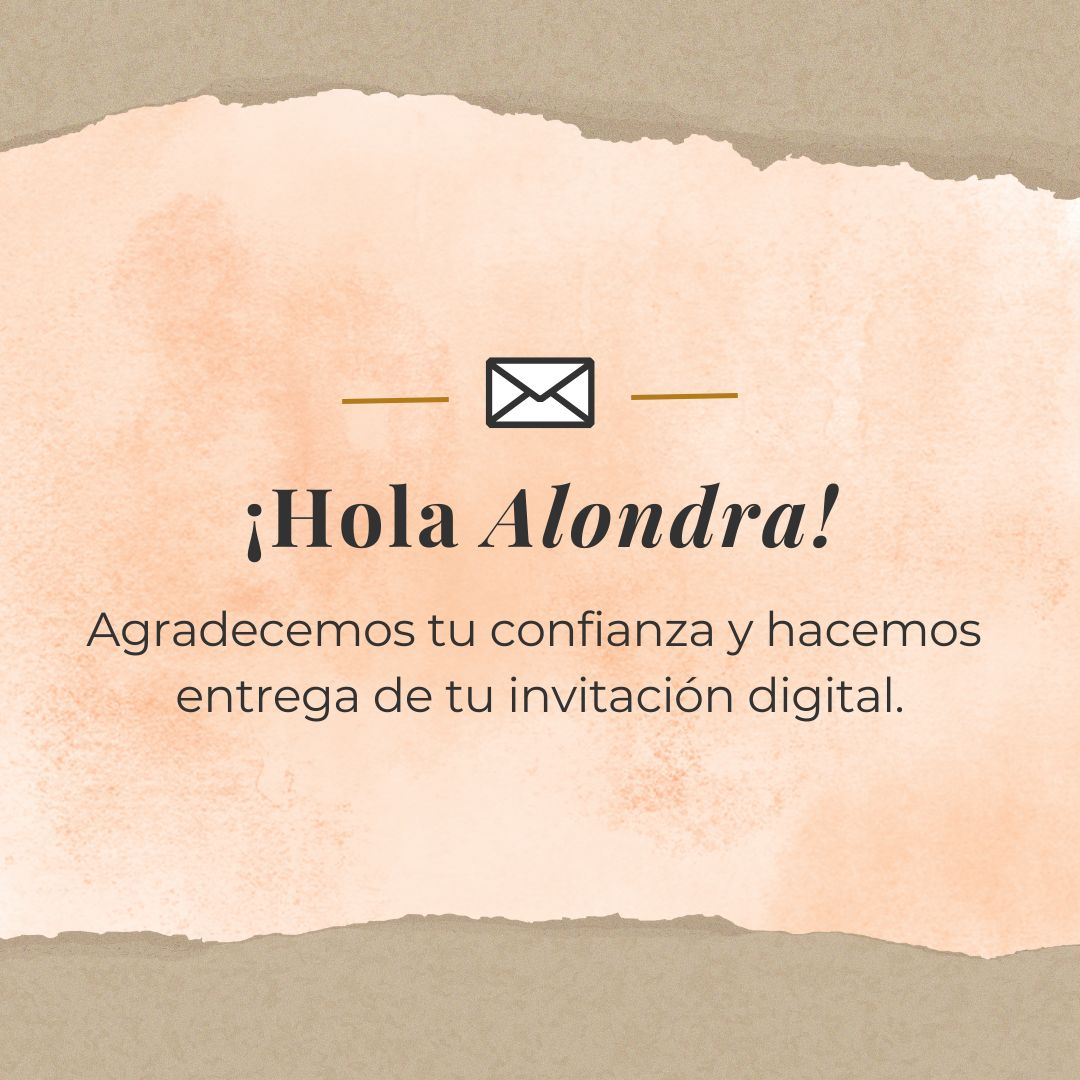
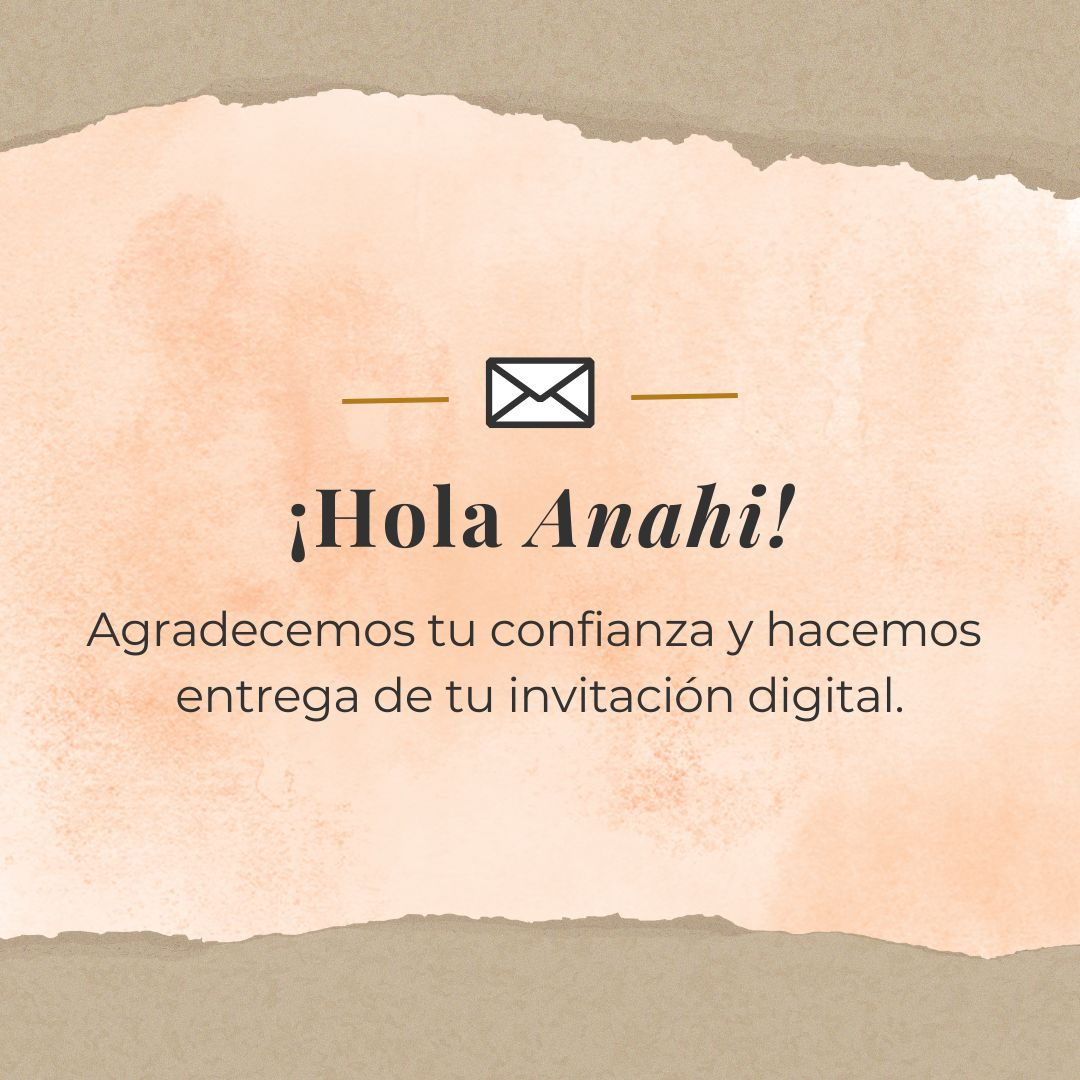
Add files via upload

Changed region(s): [[0.2139, 0.4278, 0.7944, 0.5194]]

diff --git a/css/demo001.css b/css/demo001.css
@@ -1113,7 +1113,7 @@ box-shadow: 0 0 10px gray;
   letter-spacing: 3px;
   text-decoration: none;
   color:#7d5b29;
-  background-color:#fff;
+  background-color:transparent;
   
   font-family: "Montserrat Alternates", sans-serif;
   font-weight: 600;